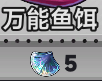
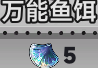
修复2.5k分辨率下出现的补充鱼饵流程图片识别失败的问题

diff --git a/fishing_module.py b/fishing_module.py
@@ -928,18 +928,17 @@ class FishingModule:
         # 定义基准分辨率（模板图片的原始分辨率）
         base_width, base_height = 1920, 1080
         
-        # 计算缩放比例
-        scale_x = current_width / base_width
-        scale_y = current_height / base_height
+        # 计算等比缩放比例（取最小比例，保持宽高比）
+        scale = min(current_width / base_width, current_height / base_height)
         
-        # 缩放模板（按比例缩放）
-        if scale_x != 1.0 or scale_y != 1.0:
+        # 缩放模板（等比缩放，保持宽高比）
+        if scale != 1.0:
             original_h, original_w = template.shape[:2]
-            new_w = int(original_w * scale_x)
-            new_h = int(original_h * scale_y)
+            new_w = int(original_w * scale)
+            new_h = int(original_h * scale)
             if new_w > 0 and new_h > 0:
                 template = cv2.resize(template, (new_w, new_h), interpolation=cv2.INTER_AREA)
-                self.fishing_log(f"模板 {template_name} 已缩放: {scale_x:.2f}x{scale_y:.2f}")
+                self.fishing_log(f"模板 {template_name} 已等比缩放: {scale:.2f}x")
         
         result = cv2.matchTemplate(screenshot, template, cv2.TM_CCOEFF_NORMED)
         min_val, max_val, min_loc, max_loc = cv2.minMaxLoc(result)

diff --git a/README.md b/README.md
@@ -9,7 +9,7 @@
 
 ## 版本信息
 
-当前版本：**1.3.0.1**
+当前版本：**1.3.0.2**
 
 ## 安装步骤
 
@@ -202,6 +202,13 @@ HSV（色相、饱和度、明度）是颜色识别的关键参数：
 - **出售渔获/补充鱼饵失败**：确保游戏处于正确的场景，检查模板图片识别是否正常
 
 ## 更新日志
+
+### v1.3.0.2
+
+- **修复多分辨率模板匹配问题**：将模板缩放改为等比缩放，修复2560x1600等非标准分辨率下补充鱼饵image2-1-1.png识别不到的问题
+- **修复下杆阶段重复执行**：删除execute_drop_line_alone函数中重复的线程定义和启动代码，避免检测到鱼后继续计时的问题
+- **修复出售渔获重复执行**：删除execute_sell_catch_alone函数中重复的sell_catch调用
+- **修复重复错误提示**：清理主循环中所有重复的messagebox调用，取消和失败操作只显示一次对应提示
 
 ### v1.3.0.1
 